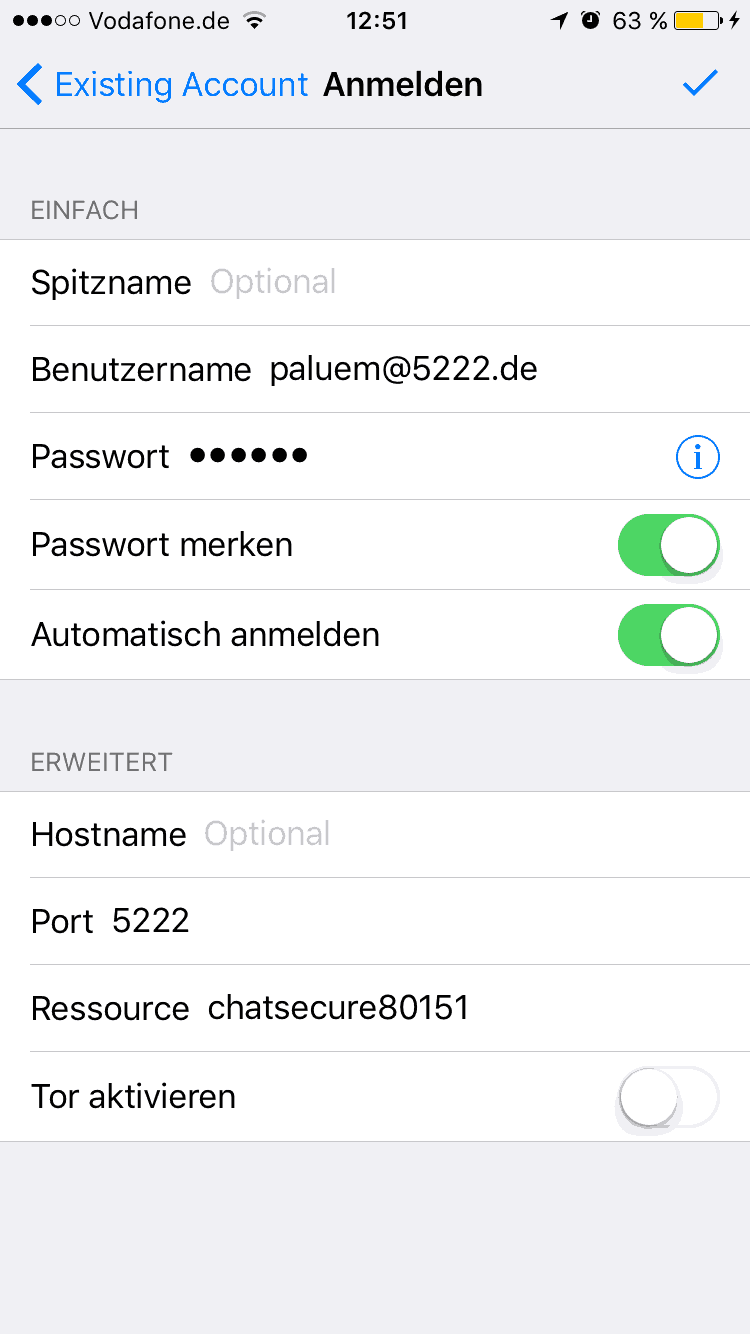
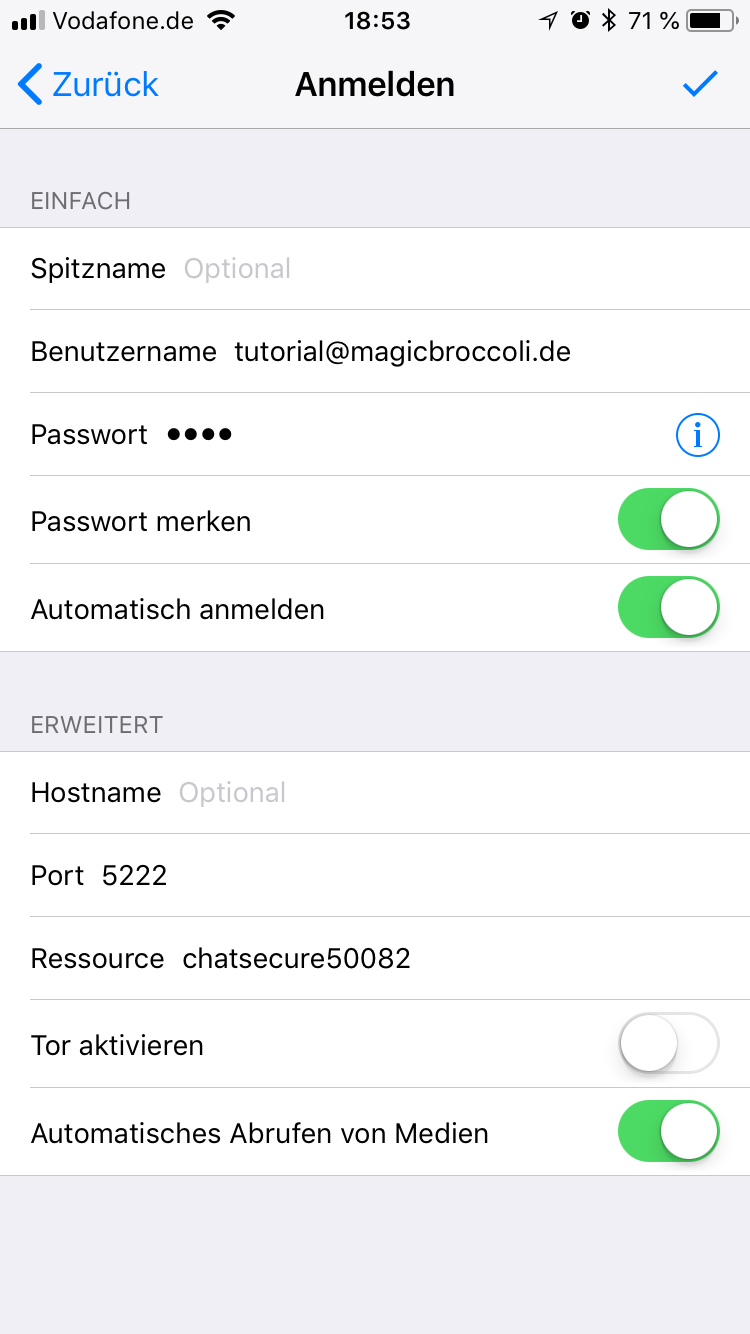
Website update
+ added new Chatsecure Screenshots
* updated Chatssecure and Gajim tutorials
* updated various smaller text passages

diff --git a/content/technik.md b/content/technik.md
@@ -7,7 +7,7 @@ author = "nico"
 keywords = [ "Prosody", "Debian", "XMPP", "MagicBroccoli XMPP"]
 +++
 ## System
-Das Hostsystem verwendet ![Debian](/icons/debian_icon.png) Debian 9.4 Stretch. Alle Komponenten werden regelmäßig aktualisiert. Teilweise nehme ich Rücksicht darauf, dass es zu keinen reboot in Stoßzeiten kommt. Wenn sich dies allerdings nicht verhindern lässt, wird es zu einer möglichst kleinen Downtime für wichtige Updates kommen.
+Das Hostsystem verwendet ![Debian](/icons/debian_icon.png) Debian 9.5 Stretch. Alle Komponenten werden regelmäßig aktualisiert. Teilweise nehme ich Rücksicht darauf, dass es zu keinen reboot in Stoßzeiten kommt. Wenn sich dies allerdings nicht verhindern lässt, wird es zu einer möglichst kleinen Downtime für wichtige Updates kommen.
 
 ### DNS
 Die gesamte DNS-Zone von *magicbroccoli.de* ist mit DNSSEC signiert und lässt sich dahingehend überprüfen.
@@ -36,20 +36,17 @@ Besonders bekannt hierfür ist [Qualys SSL Labs](https://www.ssllabs.com) dort s
 ( _Der Test dauert ca. 1 Minute, daher kann der Test von jedem jederzeit wiederholt werden._ )
 
 ### Ejabberd
-Bei der XMPP Serversoftware handelt es ich um ein Ejabberd 18.01.<br>
-Ich lege großen Wert auf Stabilität und Sicherheit, daher habe ich mich für einen Wechsel zu [ejabberd](https://www.ejabberd.im/) entschieden. Die Konfiguration ist soweit angepasst das alle aktuellen Features unterstützt werden.
+Bei der XMPP Serversoftware handelt es ich um ein Ejabberd 18.06-1~bpo9+1.<br>
 
 #### Verschlüsselung
-Ejabberd ist so konfiguriert, ausschließlich verschlüsselte Verbindungen zuzulassen. Zusätzlich dazu ist der Server so konfiguriert ausschließlich Verschlüsselungsverfahren zu erlauben, die [Perfect Forward Secrecy](https://wikipedia.org/wiki/Perfect_Forward_Secrecy) unterstützen.
-Ungesicherte Verbindungen, oder Verbindungen mit zu schwacher Verschlüsselung bei *c2s* oder *s2s* sind nicht zulässig. Leider werden dadurch einige Server sowie einige ältere Clients ausgesperrt, allerdings ist unzureichende Verschlüsselng für mich ein Ausschlusskriterium.
-Eine Übersicht welche Verschlüsselungsverfahren zum Verbindungsaufbau zulässig sind ist hier zu finden: [zulässige Verschlüsselungsverfahren](https://check.messaging.one/result.php?domain=magicbroccoli.de&type=client#ciphers)
+Es werden generell ausschließlich verschlüsselte Verbindungen zugelassen, zusätzlich dazu werden ausschließlich Verschlüsselungsverfahren angeboten, die [Perfect Forward Secrecy](https://wikipedia.org/wiki/Perfect_Forward_Secrecy) unterstützen. Hierdurch kann es vorkommen das einige Server nicht erreichbar sind. Der Admin des jeweiligen Servers kann Ihnen hierbei weiterhelfen, unzureichende Verschlüsselng für mich ein Ausschlusskriterium; [zulässige Verschlüsselungsverfahren](https://check.messaging.one/result.php?domain=magicbroccoli.de&type=client#ciphers).
 
-#### Zertifikate
-Es gibt viele öffentliche XMPP Server, die unter selbstsignierten oder ungültigen Zertifikaten betrieben werden. Mein Server ist so konfiguriert ausschließlich Zertifikate zuzulassen, denen vertraut wird und welche gültig sind. Selbstsignierte Zertifikate werden nicht akzeptiert.
+##### Zertifikate
+Dieser XMPP Server ist dahingehend konfiguriert ausschließlich gültige und korrekt ausgestellte Zertifikate zuzulassen. Selbstsignierte Zertifikate werden nicht unterstützt.
 
 #### Passwörter
 Alle Passwöter werden gehashed in einer Datenbank gespeichert, die nicht von außen erreichbar ist. Als Authentifizierungsverfahren wird [*SCRAM-SHA-1*](https://wikipedia.org/wiki/Salted_Challenge_Response_Authentication_Mechanism) verwendet.<br>
-Speziell das [*DIGEST-MD5*](https://wikipedia.org/wiki/HTTP-Authentifizierung#Digest_Access_Authentication) Verfahren, welches ältere Clients und Bots häufiger verwenden, wird nicht unterstützt.
+Das [*DIGEST-MD5*](https://wikipedia.org/wiki/HTTP-Authentifizierung#Digest_Access_Authentication) Verfahren ist explizit deaktiviert, welches ältere Clients und Bots häufiger verwenden.
 
 #### Features
 Der Server unterstützt eine Vielfalt an XMPP-Erweiterungen (XEPs). Jeder Client unterstützt dabei eine andere Teilmenge dieser Features. Speziell gebe ich Acht darauf, [Conversations (Android)](https://conversations.im/) in möglichst großem Umfang zu unterstützen.
@@ -85,11 +82,11 @@ Für Fans von [Tor](https://www.torproject.org/) biete ich nun einen Hidden Serv
 
 <font color="red">_Hinweise_:</font>
 
-- Es ist nicht möglich, ein gültiges TLS-Zertifikat für eine .onion-Adresse anzubieten. Durch die Verwendung von Tor sollte der Zugang allerdings auch schon stark genug gesichert sein das dieser Faktor entfallen kann.
-- Die Funktion http_upload verwendet bei Nutzung, auch mit konfigurierter .onion-Adresse, mit dem normalen DNS und klassischen Verbindungen ins Internet. Daher müsste für dessen Nutzung mindestens noch ein _normaler_ Zugang zum Internet bestehen.
+- Es ist nicht möglich, ein gültiges TLS-Zertifikat für eine .onion-Adresse anzubieten.
+- Die Funktion http_upload verwendet bei Nutzung, auch mit konfigurierter .onion-Adresse, den normalen DNS und klassischen Verbindungen ins Internet. Daher müsste für dessen Nutzung mindestens noch ein _normaler_ Zugang zum Internet bestehen.
 
 #### Registrieren
-Wenn dich diese Dinge überzeugt haben XMPP für dich und deine Freunde zu probieren. Kannst du dich hier direkt anmelden.
+Wenn Sie diese Dinge überzeugt haben XMPP zu probieren, ist es hier direkt möglich sich zu registrieren.
 <center><a style="display: block; margin-top: 50px; margin-left: auto; margin-right: auto; margin-bottom: 50px; height: 50px; width: 300px; background-color: #0069a1; color: white; border-radius: 5px; line-height: 50px; text-align: center; font-weight: bold;" href="/register/">Registrieren</a></center>
 
 #### IM Observer
@@ -100,4 +97,4 @@ IM Oberserver ist ein Testsuite die automatisiert XMPP Server auf verschiedene F
 Mit dem Tool von [tls.imirhil.fr](https://tls.imirhil.fr) lässt sich ähnlich zum IM Observer ein Server prüfen. MagicBroccoli XMPP hat dort ein Rating von A+ [CryptCheck Score](https://tls.imirhil.fr/xmpp/magicbroccoli.de).
 
 - - -
-Last Edit 25.04.18
+Last Edit 02.08.18

diff --git a/content/xmpp.md b/content/xmpp.md
@@ -9,20 +9,21 @@ keywords = [ "MagicBroccoli XMPP", "XMPP", "MagicBroccoli XMPP", "Prosody", "Deb
 MagicBroccoli XMPP ist ein freier XMPP Server ausgelegt auf Datenschutz und Sicherheit. [XMPP](https://wikipedia.org/wiki/Extensible_Messaging_and_Presence_Protocol) ist ein Protokoll, welches ein Versenden von Nachrichten über das Internet ermöglicht. Es ist sehr ähnlich zu ICQ oder MSN besitzt dazu aber einige besondere Features.
 
 ### Wie funktioniert es?
-XMPP ist in einem dezentrales Netzwerk organisiert. Das bedeutet, dass es entgegen WhatsApp oder Facebook, weltweit viele Anbieter von XMPP Servern gibt. Daher kann theoretisch bei jedem Anbieter seinen Account registrieren. Ähnlich einem E-Mail Account besitzt jeder Account eine Adresse. Dieser besteht bei XMPP aus dem Username @ Servernamen.tld z.B. _"user@magicbroccoli.de"_
+XMPP ist in einem dezentrales Netzwerk organisiert. Das bedeutet, dass es entgegen WhatsApp oder Facebook, weltweit viele Anbieter von XMPP Servern gibt. Daher kann sich  bei theoretisch jedem Anbieter ein Account erstellt werden. Ähnlich einem E-Mail Account besitzt jeder Account eine Adresse. Dieser besteht bei XMPP aus dem Username @ Servernamen.tld z.B. _"user@magicbroccoli.de"_
 
 ### Vorteile von XMPP?
-- meistens kostenlos, nur sehr wenige Anbieter sind kostenpflichtig
-- Datenschutz und Sicherheit der User ist häufig ein Schwerpunkt daher werden für die Registrierung nur minimale Informationen benötigt.
+- meistens kostenlos, nur einige wenige Anbieter sind kostenpflichtig
+- minimalste Informationen zur Registrierung/ Nutzung notwendig
 - die freie Wahl, des Clients und des Servers. Für jedes Betriebssystem sind dutzende Clients mit unterschiedlichestem Funktionsumfang verfügbar.
+- Unabhängikeit von einem einzigen großen Anbieter ( WhatsApp/ Facebook )
 
 ### How to?
-XMPP Clients funktioniert analog zu Clients für ICQ/ MSN. Nach der Registrierung eines Accounts werden die persönlichen Login-Daten eingegeben und schon ist der Account einsatzbereit.
+XMPP Clients funktioniert analog zu Clients wie ICQ/ MSN. Nach der Registrierung eines Accounts werden die persönlichen Login-Daten eingegeben und schon ist der Account einsatzbereit.
 Eine ausführliche Liste von Clients für unterschiedlichste Systeme gibt es [hier](https://xmpp.org/software/clients.html). Für einige der unten empfohlenen Clients sind [Tutorials](/tutorial/) vorhanden.
 
 **INHO** : _Die folgende Liste bezieht sich auf die Clients, die die meisten Features abdecken und mit möglichst vielen Standards konform sind. Außerdem werden ausschließlich Clients gelistet, die aktiv entwickelt werden._
 
-- Android: [Conversations](https://conversations.im/) (€ 4,99 im [Google Play Store](https://play.google.com/store/apps/details?id=eu.siacs.conversations) oder gratis auf [F-Droid](https://f-droid.org/repository/browse%20/?fdid=eu.siacs.conversations))
+- Android: [Conversations](https://conversations.im/) (€ 2,39 im [Google Play Store](https://play.google.com/store/apps/details?id=eu.siacs.conversations) oder gratis auf [F-Droid](https://f-droid.org/repository/browse%20/?fdid=eu.siacs.conversations))
 - Android: [Pix-Art Messenger](https://jabber.pix-art.de/) (Conversations Fork mit einigen Änderungen zur Verbesserung der Benutzerfreundlichkeit)
 - Android: [Xabber](https://www.xabber.com/)
 - iOS (iPhone): [ChatSecure](https://chatsecure.org/)
@@ -32,11 +33,10 @@ Eine ausführliche Liste von Clients für unterschiedlichste Systeme gibt es [h
 - macOS: [Adium](https://adium.im/)
 - macOS: [Dino](https://dino.im/) ( _muss noch selbstständig compiliert werden_ )
 - Windows: [Gajim](https://gajim.org/?lang=de)
-- Windows (XMPP - Anfänger): [Pidgin](https://pidgin.im/) *mit deutlich eingeschränktem Funktionsumfang der Server-Features*
 - Webbrowser: [Converse.js](https://conversejs.org/)
 
 ## Registrieren
-Wenn dich diese Dinge überzeugt haben XMPP für dich und deine Freunde zu probieren. Ist es dir hier direkt möglich dich anzumelden.
+Wenn Sie diese Dinge überzeugt haben XMPP zu probieren, ist es hier direkt möglich sich zu registrieren.
 <center><a style="display: block; margin-top: 50px; margin-left: auto; margin-right: auto; margin-bottom: 50px; height: 50px; width: 300px; background-color: #0069a1; color: white; border-radius: 5px; line-height: 50px; text-align: center; font-weight: bold;" href="/register/">Registrieren</a></center>
 
 #### Datenschutz
@@ -54,4 +54,4 @@ Alles weitere, wie aktivierte XEPs und näheres zur verwendeten Technik bzw Soft
 
 <center>[![](/images/netcup-hlogo-b220h100.png)](https://www.netcup.de)</center>
 
-Last Edit 14.02.18
+Last Edit 02.08.18

diff --git a/content/page/tutorial_gajim.md b/content/page/tutorial_gajim.md
@@ -44,19 +44,14 @@ Viele Funktionalitäten lassen sich bei Gajim mithilfe von Plugins stark erweite
 ### 4.1 Omemo
 Bei [Omemo](https://conversations.im/omemo/) handelt es sich um eine Weiterentwicklung des OTR ([Off the record](https://wikipedia.org/wiki/Off-the-Record_Messaging)) Verfahrens. Besonders hierbei ist, dass mehrere Ressourcen pro Account und auch Gruppenkonversationen verschlüsselt werden können. Zusätzlich dazu können auch verschickte Medien verschlüsselt versendet werden.
 
-### 4.2 HTTP Upload
-HTTP Upload ist eine Funktion des Medienversands, wie sie auch WhatsApp und Co verwenden. Dabei wird eine Mediendatei ( Bild, Video, etc. ) an den Server übertragen und dieser versendet anschließend einen Link zu der Datei an den/die Empfänger.
-
 Bei diesem Plugin sind die Serverrichtlinien zu beachten. Meistens gibt es vorgegebene Grenzen, wie groß eine einzelne versendete Datei sein darf bzw wie viele Dateien pro Zeiteinheit versendet werden können.
 
 *Wie [4.1](#4-1-omemo) erwähnt lässt dieses Plugin einen verschlüsselten Upload eines versendeten Mediums zu. Damit sind die versendeten Dateien, nach den Spezifikationen von Omemo nur für die*
 
-**Wichtig** : Das Plugin [Images](https://dev.gajim.org/gajim/gajim-plugins/wikis/ImagePlugin) verwendet **kein** HTTP Upload. Hierbei wird die Datei über das ältere Peer 2 Peer System übertragen. Viele mobile Geräte unterstützen diese Art der Übertragung nicht.
+### 4.2 URL Image Preview
+Um die volle Funktionalität von HTTP Upload auszuschöpfen sollte das [URL Image Preview Plugin](https://dev.gajim.org/gajim/gajim-plugins/wikis/UrlImagePreviewPlugin) installiert werden. Dieses ermöglicht Medien Dateien, die über HTTP Upload versendet wurden, direkt im Nachrichtenverlauf anzuzeigen.
 
-### 4.3 URL Image Preview
-Um die volle Funktionalität von HTTP Upload auszuschöpfen kann das [URL Image Preview Plugin](https://dev.gajim.org/gajim/gajim-plugins/wikis/UrlImagePreviewPlugin) verwendet werden. Dieses ermöglicht Medien Dateien, die über HTTP Upload versendet wurden, direkt im Nachrichtenverlauf anzuzeigen. Damit ist der Medien Versand/Empfang mit diesen beiden Plugins ( HTTP Upload / URL Image Preview ) vollständig integriert.
-
-*Besonders nützlich ist, dass dieses Plugin das  Öffnen von aesgcm:// Links unterstützt. Damit können auch mit Omemo verschlüsselt übertragene Medien direkt angezeigt werden.*
+*Besonders ist das auch OMEMO verschlüsselte Uploads mit dem aesgcm:// Schema unterstüzt werden. Damit können auch mit Omemo verschlüsselt übertragene Medien direkt angezeigt werden.*
 
 ## 5. Gruppenchats
 Aktionen > Chatraum betreten > Chatraum betreten führt zu einem Fenster das Ihnen einige Möglichkeiten bietet.
@@ -99,4 +94,4 @@ Einige Webseiten die weitergehende Tutorials bzw. ausführlichere Tutorials zur 
 [Zurück zur Übersicht](/xmpp/)
 
 - - -
-Last Edit 30.03.18
+Last Edit 02.08.18

diff --git a/content/xmpp-hosting.md b/content/xmpp-hosting.md
@@ -8,7 +8,6 @@ draft = true
 +++
 ## MagicBroccoli XMPP Hosting
 MagicBroccoli XMPP Hosting bietet einen freien XMPP Server der ausgelegt ist auf Datenschutz und Sicherheit unter Verwendung *deiner eigenen Domain*.<br>
-Auf Anfrage und speziellen Wunsch, ist es auch möglich eine Subdomain z.B. xmpp.example.de zu betreiben mit einem dazugehörigen LetsEncrypt Zertifikat.
 
 ### Administration
 Zur Verwaltung des Jabber Servers stehen Ihnen 2 mögliche Wege zur Verfügung. Über das [Webinterface](/admin/) können User hinzugefügt, entfernt oder geändert werden. Verfügt der verwendete XMPP-Client über die Möglichkeit Ad-Hoc Kommandos zu verwenden, kann die Verwaltung auch komplett über den Client vorgenommen werden.
@@ -18,10 +17,6 @@ Um einen verantwortungsvollen Umgang zu gewährleisten, bestehen einige Vorausse
 
 - regelkonformes Verhalten nach den [Terms of Service](/termsofuse/)
 - Aufklärung aller Nutzer über die [Datenschutzerklärung](/datenschutz/)
-
-### Begrenzungen
-Da es sich um ein privates Projekt handelt, richtet sich dieses Angebot an private Gruppen bzw. kleine Firmen.<br>
-Um Spammern vorzubeugen ist eine public Registrierung sowie die in-line Registrierung deaktiviert. Nutzeraccounts müssen über das Webinterface oder Ad-Hoc erstellt werden. Die maximale Nutzerzahl beträgt 25 Accounts. Benötigen Sie mehr Accounts, muss dies explizit mit mir besprochen werden.
 
 ## Wie funktioniert es?
 Damit der XMPP Server funktioniert müssten einige DNS SRV Einträge geändert/ hinzugefügt werden. Dies ist bei nahezu allen Providern möglich, falls nicht, müsste dies der betreffende Support des Providers übernehmen.<br>
@@ -47,12 +42,10 @@ Bei Problemen zörgere nicht mich zu [kontaktieren](/contact/).
 
 ### Zertifikat
 Wenn der Wunsch besteht ein bereits bestehendes gültiges Zertifikat zu verwenden, bitte ich darum, das dieses mindestens 1 Jahr gültig ist. Falls kein Zertifikat zur Verfügung gestellt wird, wird das magicbroccoli.de Zertifikat verwendet.<br>
-In dem Fall, dass eine Subdomain von mir verwendet werden soll, kann damit ein LetsEncrypt Zertifikat bereitgestellt werden.
+In dem Fall, dass eine Domain auf meinen Server zeigt, kann ein LetsEncrypt Zertifikat bereitgestellt werden.
 
-## Hosting Provider
-Falls noch kein Hoster für die Domain gefunden wurde kann ich Netcup als Hoster empfehlen. Gerne können sie auf Nachfrage Coupon Codes von mir ausstellen lassen die einen Rabatt gewähren.
 - - -
 
 <center>[![](/images/netcup-hlogo-b220h100.png)](https://www.netcup.de)</center>
 
-Last Edit 25.04.18
+Last Edit 02.08.18

diff --git a/content/donate.md b/content/donate.md
@@ -7,7 +7,7 @@ keywords = [ "donate" ]
 +++
 ## Unterstützung
 Der Betrieb des Servers sowie dessen Wartung kosten viel Zeit und natürlich auch Geld. Momentan werden alle Kosten von mir privat getragen. Wenn Sie mich in meinem Bestreben Datenschutz für alle Verfügbar zu machen unterstützen möchten, sind sie hier gold richtig.<br>
-Über kleine Beiträge zur Finanzierung freue ich mich ungemein. Daueraufträge lassen sogar eine längerfristige Planung zu.
+Auch über kleine Beiträge zur Finanzierung freue ich mich ungemein. Daueraufträge lassen sogar eine längerfristige Planung zu.
 
 <i class="fa fa-paypal"></i> [PayPal](https://paypal.me/nwellpott)
 
@@ -15,7 +15,7 @@ Der Betrieb des Servers sowie dessen Wartung kosten viel Zeit und natürlich auc
 
 <i class="fa fa-university"></i> Banküberweisung: [auf Anfrage](/contact/)
 
-<i class="fa fa-credit-card"></i> [LiberaPay](https://liberapay.com/mightyBroccoli): <script src="https://liberapay.com/mightyBroccoli/widgets/button.js"></script>
+<i class="fa fa-credit-card"></i> LiberaPay: <script src="https://liberapay.com/mightyBroccoli/widgets/button.js"></script>
 <noscript><a href="https://liberapay.com/mightyBroccoli/donate"><img alt="Donate using Liberapay" src="https://liberapay.com/assets/widgets/donate.svg"></a></noscript>
 
 <i class="fa fa-btc"></i>  Bitcoin: `1QJZTWenBvdLWTUachpLLd2dLXAZMGeU87`<br>
@@ -25,5 +25,16 @@ Vielen vielen herzlichen Dank an alle, die sich einmalig oder dauerhaft an der F
 
 **Hinweis**: _Es handelt sich hierbei um Spenden im Sinne von Schenkungen nach § 516 BGB, nicht um steuerlich absetzbare Spenden im Sinne des Steuerrechts._
 
+Es gibt auch die Möglichkeit sich indirekt an der Finanzierung zu beteiligen. [netcup](https://www.netcup.de/bestellen/gutschein_einloesen.php) bietet für seine Kunden Referral Vorteile an, an dessen Umsätzen ich dann beteiligt würde.
+
+- [Gutschein 5 Euro (fuer Neukunden, keine Domains)](https://www.netcup.de)
+- [Webhosting 2000 - 30%](https://www.netcup.de/bestellen/produkt.php?produkt=1920)
+- [Webhosting 4000 - 30%](https://www.netcup.de/bestellen/produkt.php?produkt=1922)
+- [Webhosting 8000 - 30%](https://www.netcup.de/bestellen/produkt.php?produkt=1924)
+- [VPS 200 G8 - 10%](https://www.netcup.de/bestellen/produkt.php?produkt=2000)
+- [VPS 500 G8 - 10%](https://www.netcup.de/bestellen/produkt.php?produkt=2001)
+- [VPS 1000 G8 - 10%](https://www.netcup.de/bestellen/produkt.php?produkt=2002)
+- [VPS 2000 G8 - 10%](https://www.netcup.de/bestellen/produkt.php?produkt=2003)
+
 - - -
-Last Edit 22.01.18
+Last Edit 02.08.18

diff --git a/content/page/tutorial_chatsecure.md b/content/page/tutorial_chatsecure.md
@@ -37,11 +37,11 @@ Das kleine gelbe Warndreieck symbolisiert, das die App ein Feature des Server ve
 <br><img src="/images/tutorials/chatsecure/settings.png" width="33%"><img src="/images/tutorials/chatsecure/settings_konto.png" width="33%"><img src="/images/tutorials/chatsecure/settings_profile.png" width="33%">
 Unter _Meine Schlüssel verwalten_ ist es möglich seine eigenen Omemo Schlüssel zu akzeptieren oder zu misstrauen.
 
-## 5. Plugins
-Bei Plugins ist Chatsecure sehr nah an Conversations dran. Viele Einstellungen werden automatisch vom Server übernommen und müssen vom Benutzer gar nicht bedacht werden. Einige Einstellungen müssen, um den Betrieb möglichst reibungslos zu gewährleisten, von Hand einmalig eingestellt werden.
+## 5. Features
+Bei Features ist Chatsecure der beste iOS Client. Einige Einstellungen müssen, um den Betrieb möglichst reibungslos zu gewährleisten, von Hand einmalig eingestellt werden.
 
 ### 5.1 Push Notifications
-Push Benachrichtigungen sind ein sehr nützliches Feature, welches nicht alle Server Anbieter anbieten. Beim ersten verbinden erfragt das Telefon automatisch die verfügbaren Serverfeatures. Sollte sich darunter Push befinden, wird Ihr Telefon sie folgendes Fragen.
+Push Benachrichtigungen sind ein sehr nützliches Feature, welches nicht alle Anbieter anbieten. Beim ersten verbinden erfragt das Telefon automatisch die verfügbaren Serverfeatures. Sollte sich darunter Push befinden, wird Ihr Telefon sie folgendes Fragen.
 <br><img src="/images/tutorials/chatsecure/push_enable_1.png" width="50%"><img src="/images/tutorials/chatsecure/push_enable_2.png" width="50%">
 Um erfolgreich Push Benachrichtigungen zu erhalten ist es notwendig beide Fragen zu akzeptieren. Diese Frage wird einmalig pro Account gestellt.
 Es ist möglich die Erlaubnis in den Einstellungen zurückzusetzen oder sogar ganz zu verbieten.
@@ -62,4 +62,4 @@ Einige Webseiten die weitergehende Informationen zur Verfügung stellen.
 [Zurück zur Übersicht](/xmpp/)
 
 - - -
-Last Edit 13.10.17
+Last Edit 02.08.18

diff --git a/content/termsofuse.md b/content/termsofuse.md
@@ -8,13 +8,13 @@ keywords = [ "Nutzungsbedingungen", "Terms of use", "tos" ]
 +++
 ## Terms of Services
 ### General
-By registering and using an account on the magicbroccoli.de server, you agree with the following Terms of Service and the magicbroccoli.de [privacy policy](/datenschutz). For children under 16, the registration must be performed in consent with the holder of parental responsibility over the child. We reserve the right to delete accounts that have not been used for 1 year or longer.
+By registering and using an account on the magicbroccoli.de server, or any of its other domains, you agree with the following Terms of Service and the magicbroccoli.de [privacy policy](/datenschutz). For children under 16, the registration must be performed in consent with the holder of parental responsibility over said child. We reserve the right to delete accounts that have not been used for 1 year or longer.
 
 ### Availability
-The magicbroccoli.de XMPP service is a non-commercial project run by volunteers, and it can be used free of charge. Its primary aim is to make private decentralized communication more accessible. There are no availability guarantees and commercial use is not tolerated.
+The magicbroccoli.de XMPP service is a non-commercial project run by [me](/contact), and it can be used free of charge. Its primary aim is to make private decentralized communication more accessible. There are no availability guarantees and commercial use is not tolerated.
 
 ### Privacy Policy
 Your information is stored and processed according to our [privacy policy](/datenschutz).
 
 - - -
-Last Edit 25.05.18
+Last Edit 02.08.18

diff --git a/content/tutorial.md b/content/tutorial.md
@@ -15,9 +15,8 @@ Auf dieser Seite möchte ich einige Tutorials sammeln, teilweise stammen diese v
 
 ## Android
 - [Conversations](https://www.jabber.de/clients/android-ios/conversations-guide)
-- [Chatsecure](/page/tutorial_chatsecure)
 
-## iPhone
+## iOS
 - [Chatsecure](/page/tutorial_chatsecure)
 
 ## Prosody
@@ -30,9 +29,6 @@ Auf dieser Seite möchte ich einige Tutorials sammeln, teilweise stammen diese v
 ### _IMHO_ Nützliche Links
 Einige Webseiten die weitergehende Tutorials bzw. ausführlichere Tutorials zur Verfügung stellen.
 
-##### Allgemein
-- [Datenschutzhelden.org - XMPP Server explained](https://datenschutzhelden.org/2017/07/12/daten-sparsame-xmpp-server/)
-
 ##### Omemo
 - [Maintainer Website von Omemo](https://conversations.im/omemo/)
 - [Omemo Audit (PDF Download)](https://conversations.im/omemo/audit.pdf)
@@ -44,4 +40,4 @@ Einige Webseiten die weitergehende Tutorials bzw. ausführlichere Tutorials zur 
 [Zurück zur Übersicht](/xmpp/)
 
 - - -
-Last Edit 22.01.18
+Last Edit 02.08.18

diff --git a/content/contact.md b/content/contact.md
@@ -15,6 +15,7 @@ keywords = [ "contact", "Kontakt","about me" ]
 
 #### Chat
 XMPP: [broccoli(at)magicbroccoli.de](xmpp:broccoli(at)magicbroccoli.de)<br>
+XMPP-MUC : [lobby(at)conference.magicbroccoli.de](xmpp:lobby(at)conference.magicbroccoli.de?join)<br>
 IRC: `mightyBroccoli`[^1]<br>
 
 ##### OMEMO Fingerabdrücke
